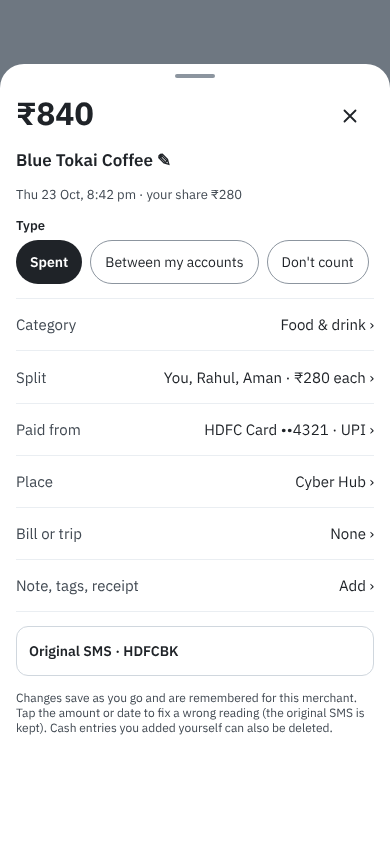
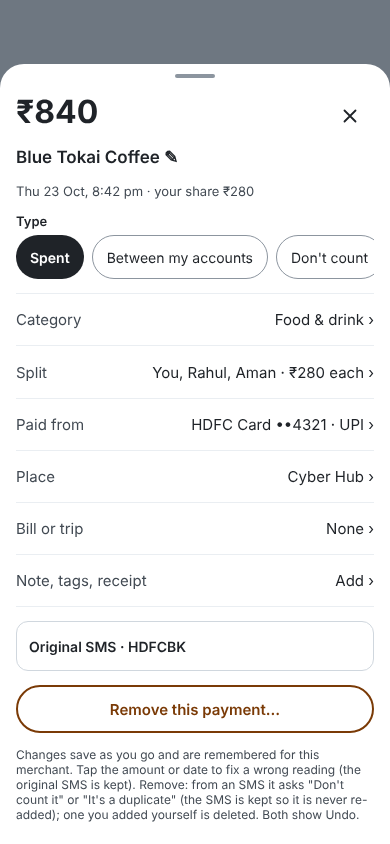
Add Remove payment button and fix leftover bill references
Payment detail sheet gets a visible Remove button: captured payments
become Don't count or Duplicate, manual entries are deleted, both with
Undo. Electricity is no longer preselected in setup, bill counts read 5,
and the payback example and rent date match the other screens.

Claude-Session: https://claude.ai/code/session_019TWJhnqC3Tqk1LrQsxqSPf

diff --git a/expense-tracker/wireframes/v2/V2-Received-Sheet.html b/expense-tracker/wireframes/v2/V2-Received-Sheet.html
@@ -32,7 +32,7 @@ a{color:#0B57D0}a:hover{color:#08408F}
     <fieldset style="border: none; margin: 0; padding: 0; display: flex; flex-direction: column; gap: 8px">
       <legend style="position: absolute; width: 1px; height: 1px; overflow: hidden">What is this money</legend>
       <label style="min-height: 64px; border-radius: 14px; border: 2px solid #1F2328; padding: 8px 14px; box-sizing: border-box; display: flex; align-items: center; gap: 12px"><input type="radio" name="rx" checked style="width: 22px; height: 22px; margin: 0">
-        <span style="display: flex; flex-direction: column; gap: 2px"><strong style="font-size: 15px">Paying me back <span style="font-size: 12px; font-weight: 600; background: #EAEEF2; border-radius: 4px; padding: 1px 6px">suggested</span></strong><span style="font-size: 13px; color: #424A53">Rohit owed ₹800 (electricity share) → ₹300 left. Not income.</span></span></label>
+        <span style="display: flex; flex-direction: column; gap: 2px"><strong style="font-size: 15px">Paying me back <span style="font-size: 12px; font-weight: 600; background: #EAEEF2; border-radius: 4px; padding: 1px 6px">suggested</span></strong><span style="font-size: 13px; color: #424A53">Rohit owed ₹800 (Wi-Fi share) → ₹300 left. Not income.</span></span></label>
       <label style="min-height: 56px; border-radius: 14px; border: 1px solid #8C959F; padding: 8px 14px; box-sizing: border-box; display: flex; align-items: center; gap: 12px"><input type="radio" name="rx" style="width: 22px; height: 22px; margin: 0">
         <span style="display: flex; flex-direction: column; gap: 2px"><strong style="font-size: 15px">Rent I collect</strong><span style="font-size: 13px; color: #424A53">Pick tenant and month · counts as income</span></span></label>
       <label style="min-height: 56px; border-radius: 14px; border: 1px solid #8C959F; padding: 8px 14px; box-sizing: border-box; display: flex; align-items: center; gap: 12px"><input type="radio" name="rx" style="width: 22px; height: 22px; margin: 0">

diff --git a/expense-tracker/wireframes/v2/V2-Settings.html b/expense-tracker/wireframes/v2/V2-Settings.html
@@ -32,7 +32,7 @@ a{color:#0B57D0}a:hover{color:#08408F}
 
     <div style="background: #FFFFFF; border: 1px solid #D0D7DE; border-radius: 16px; padding: 0 14px">
       <div style="padding: 10px 0 2px; font-size: 12px; font-weight: 600; color: #57606A">MONEY SETUP</div>
-      <a href="V2-Bills.html" style="display: flex; justify-content: space-between; align-items: center; min-height: 48px; border-bottom: 1px solid #EAEEF2; font-size: 15px; color: #1F2328; text-decoration: none"><span>Rent &amp; monthly bills</span><span style="color: #424A53">6 ›</span></a>
+      <a href="V2-Bills.html" style="display: flex; justify-content: space-between; align-items: center; min-height: 48px; border-bottom: 1px solid #EAEEF2; font-size: 15px; color: #1F2328; text-decoration: none"><span>Rent &amp; monthly bills</span><span style="color: #424A53">5 ›</span></a>
       <a href="../reused-v1/Rules.html" style="display: flex; justify-content: space-between; align-items: center; min-height: 48px; border-bottom: 1px solid #EAEEF2; font-size: 15px; color: #1F2328; text-decoration: none"><span>Categories, budgets &amp; merchants</span><span style="color: #424A53">›</span></a>
       <a href="../reused-v1/Onb-Banks.html" style="display: flex; justify-content: space-between; align-items: center; min-height: 48px; border-bottom: 1px solid #EAEEF2; font-size: 15px; color: #1F2328; text-decoration: none"><span>Banks, cards &amp; payment apps</span><span style="color: #424A53">›</span></a>
       <a href="../reused-v1/Places.html" style="display: flex; justify-content: space-between; align-items: center; min-height: 48px; font-size: 15px; color: #1F2328; text-decoration: none"><span>Saved places</span><span style="color: #424A53">›</span></a>

diff --git a/expense-tracker/wireframes/v2/V2-Onb-Rent.html b/expense-tracker/wireframes/v2/V2-Onb-Rent.html
@@ -38,7 +38,7 @@ a{color:#0B57D0}a:hover{color:#08408F}
   <div style="display: flex; flex-direction: column; gap: 8px">
     <span style="font-size: 14px; font-weight: 600">Other monthly bills</span>
     <div style="display: flex; flex-wrap: wrap; gap: 8px">
-      <button type="button" aria-pressed="true" style="min-height: 44px; padding: 0 14px; border-radius: 22px; border: none; background: #1F2328; color: #FFFFFF; font: inherit; font-size: 14px; font-weight: 600">Electricity</button>
+      <button type="button" aria-pressed="false" style="min-height: 44px; padding: 0 14px; border-radius: 22px; border: 1px solid #8C959F; background: #FFFFFF; font: inherit; font-size: 14px; color: #1F2328">Electricity</button>
       <button type="button" aria-pressed="true" style="min-height: 44px; padding: 0 14px; border-radius: 22px; border: none; background: #1F2328; color: #FFFFFF; font: inherit; font-size: 14px; font-weight: 600">Wi-Fi</button>
       <button type="button" aria-pressed="false" style="min-height: 44px; padding: 0 14px; border-radius: 22px; border: 1px solid #8C959F; background: #FFFFFF; font: inherit; font-size: 14px; color: #1F2328">Maintenance</button>
       <button type="button" aria-pressed="true" style="min-height: 44px; padding: 0 14px; border-radius: 22px; border: none; background: #1F2328; color: #FFFFFF; font: inherit; font-size: 14px; font-weight: 600">House help</button>

diff --git a/expense-tracker/wireframes/v2/V2-Txn-Sheet.html b/expense-tracker/wireframes/v2/V2-Txn-Sheet.html
@@ -50,7 +50,8 @@ a{color:#0B57D0}a:hover{color:#08408F}
       <summary style="min-height: 48px; display: flex; align-items: center; font-size: 14px; font-weight: 600; cursor: pointer">Original SMS · HDFCBK</summary>
       <p style="margin: 0 0 12px; font-family: 'IBM Plex Mono', monospace; font-size: 12px; color: #424A53; line-height: 1.5">[message exactly as received]</p>
     </details>
-    <span style="font-size: 12px; color: #424A53">Changes save as you go and are remembered for this merchant. Tap the amount or date to fix a wrong reading (the original SMS is kept). Cash entries you added yourself can also be deleted.</span>
+    <button type="button" style="min-height: 48px; border-radius: 24px; border: 2px solid #7A3A06; background: #FFFFFF; font: inherit; font-size: 15px; font-weight: 600; color: #7A3A06">Remove this payment…</button>
+    <span style="font-size: 12px; color: #424A53">Changes save as you go and are remembered for this merchant. Tap the amount or date to fix a wrong reading (the original SMS is kept). Remove: from an SMS it asks "Don't count it" or "It's a duplicate" (the SMS is kept so it is never re-added); one you added yourself is deleted. Both show Undo.</span>
   </div>
 </div>
 </x-dc>

diff --git a/expense-tracker/wireframes/reused-v1/Recurring.html b/expense-tracker/wireframes/reused-v1/Recurring.html
@@ -41,7 +41,7 @@ a{color:#0B57D0}a:hover{color:#08408F}
     </div>
     <div style="display: flex; align-items: center; gap: 12px; padding: 12px 0; border-bottom: 1px solid #EAEEF2">
       <div style="width: 40px; height: 40px; border-radius: 12px; background: #EAEEF2; flex-shrink: 0"></div>
-      <span style="flex-grow: 1; display: flex; flex-direction: column; gap: 2px"><span style="font-size: 15px; font-weight: 500">Rent · [landlord]</span><span style="font-size: 12px; color: #57606A">Monthly · HDFC ••1102 · 1 Nov</span></span><strong>₹[x]</strong>
+      <span style="flex-grow: 1; display: flex; flex-direction: column; gap: 2px"><span style="font-size: 15px; font-weight: 500">Rent · [landlord]</span><span style="font-size: 12px; color: #57606A">Monthly · HDFC ••1102 · 5 Nov</span></span><strong>₹[x]</strong>
     </div>
     <div style="display: flex; align-items: center; gap: 12px; padding: 12px 0; border-bottom: 1px solid #EAEEF2">
       <div style="width: 40px; height: 40px; border-radius: 12px; background: #EAEEF2; flex-shrink: 0"></div>

diff --git a/expense-tracker/wireframes/v2/V2-Backup-Share.html b/expense-tracker/wireframes/v2/V2-Backup-Share.html
@@ -28,7 +28,7 @@ a{color:#0B57D0}a:hover{color:#08408F}
     <label style="display: flex; gap: 12px; align-items: center; min-height: 48px; font-size: 15px"><input type="checkbox" checked style="width: 22px; height: 22px; margin: 0">Use the same password for nightly backups</label>
     <div style="background: #F6F8FA; border-radius: 12px; padding: 12px; display: flex; flex-direction: column; gap: 4px; font-size: 13px">
       <strong style="font-size: 14px">In the file</strong>
-      <span>1,284 payments · 14 people · 2 trips · 6 bills &amp; rent · 4 accounts · rules &amp; places · receipts</span>
+      <span>1,284 payments · 14 people · 2 trips · 5 bills &amp; rent · 4 accounts · rules &amp; places · receipts</span>
       <span style="color: #424A53">Not in the file: AI model and map (download again), app lock.</span>
       <span style="color: #424A53">About 2.4 MB. WhatsApp allows up to 2 GB.</span>
     </div>

diff --git a/expense-tracker/wireframes/v2/V2-Restore.html b/expense-tracker/wireframes/v2/V2-Restore.html
@@ -29,7 +29,7 @@ a{color:#0B57D0}a:hover{color:#08408F}
 
     <div style="background: #F6F8FA; border-radius: 12px; padding: 12px; display: flex; flex-direction: column; gap: 4px; font-size: 13px">
       <strong style="font-size: 14px">Unlocked · made 23 Oct 2026, 9:41 pm</strong>
-      <span>1,284 payments · 14 people · 6 bills &amp; rent · Oct 2024 to Oct 2026</span>
+      <span>1,284 payments · 14 people · 5 bills &amp; rent · Oct 2024 to Oct 2026</span>
       <span style="color: #424A53">Made on app version 1.4 · this phone has 1.5 (it will be upgraded)</span>
     </div>
 

diff --git a/expense-tracker/SPEC.md b/expense-tracker/SPEC.md
@@ -213,7 +213,7 @@ Every table also has `uid` (UUID string, unique), `created_at` and `updated_at`.
 - **Work expenses (7.4):** a credit from the employer matching open work items is offered as "Reimbursement" (not income) and clears them; mismatch → tick which items, difference asked.
 - **Loans:** EMI debits → spent, Loans & EMI (fixed). Money borrowed (1.7 "Lending me") creates a balance I owe, not income. Lending cash: Add › Spent › Split › "only them" = they owe the full amount.
 - **Cash check (7.7):** enter cash actually held; difference recorded as untracked cash spending, split into expenses, money received, or a plain correction.
-- **Fixing a payment:** amount and date of any captured payment are editable (original SMS kept, edit logged). Only manual entries can be deleted; captured ones use "Don't count".
+- **Fixing a payment:** amount and date of any captured payment are editable (original SMS kept, edit logged). "Remove this payment…" on 2.4 (also Money › Select › Ignore / delete): a captured payment becomes "Don't count" or "Duplicate" (row and SMS kept so it is never re-created, totals drop it); a manual entry is deleted. Both show Undo for 10 s; deleted manual entries stay recoverable for 7 days.
 - **Add person (7.5):** name required; group, UPI IDs and phone optional (typed, contacts never read). Tenant → continues to rent setup.
 - **New trip (7.6):** name, dates, members; turns trip mode on; new payments suggested as trip splits until the end date.
 - **First use / empty states:** Today shows R5; Money, Month and People show one line on what will appear.
